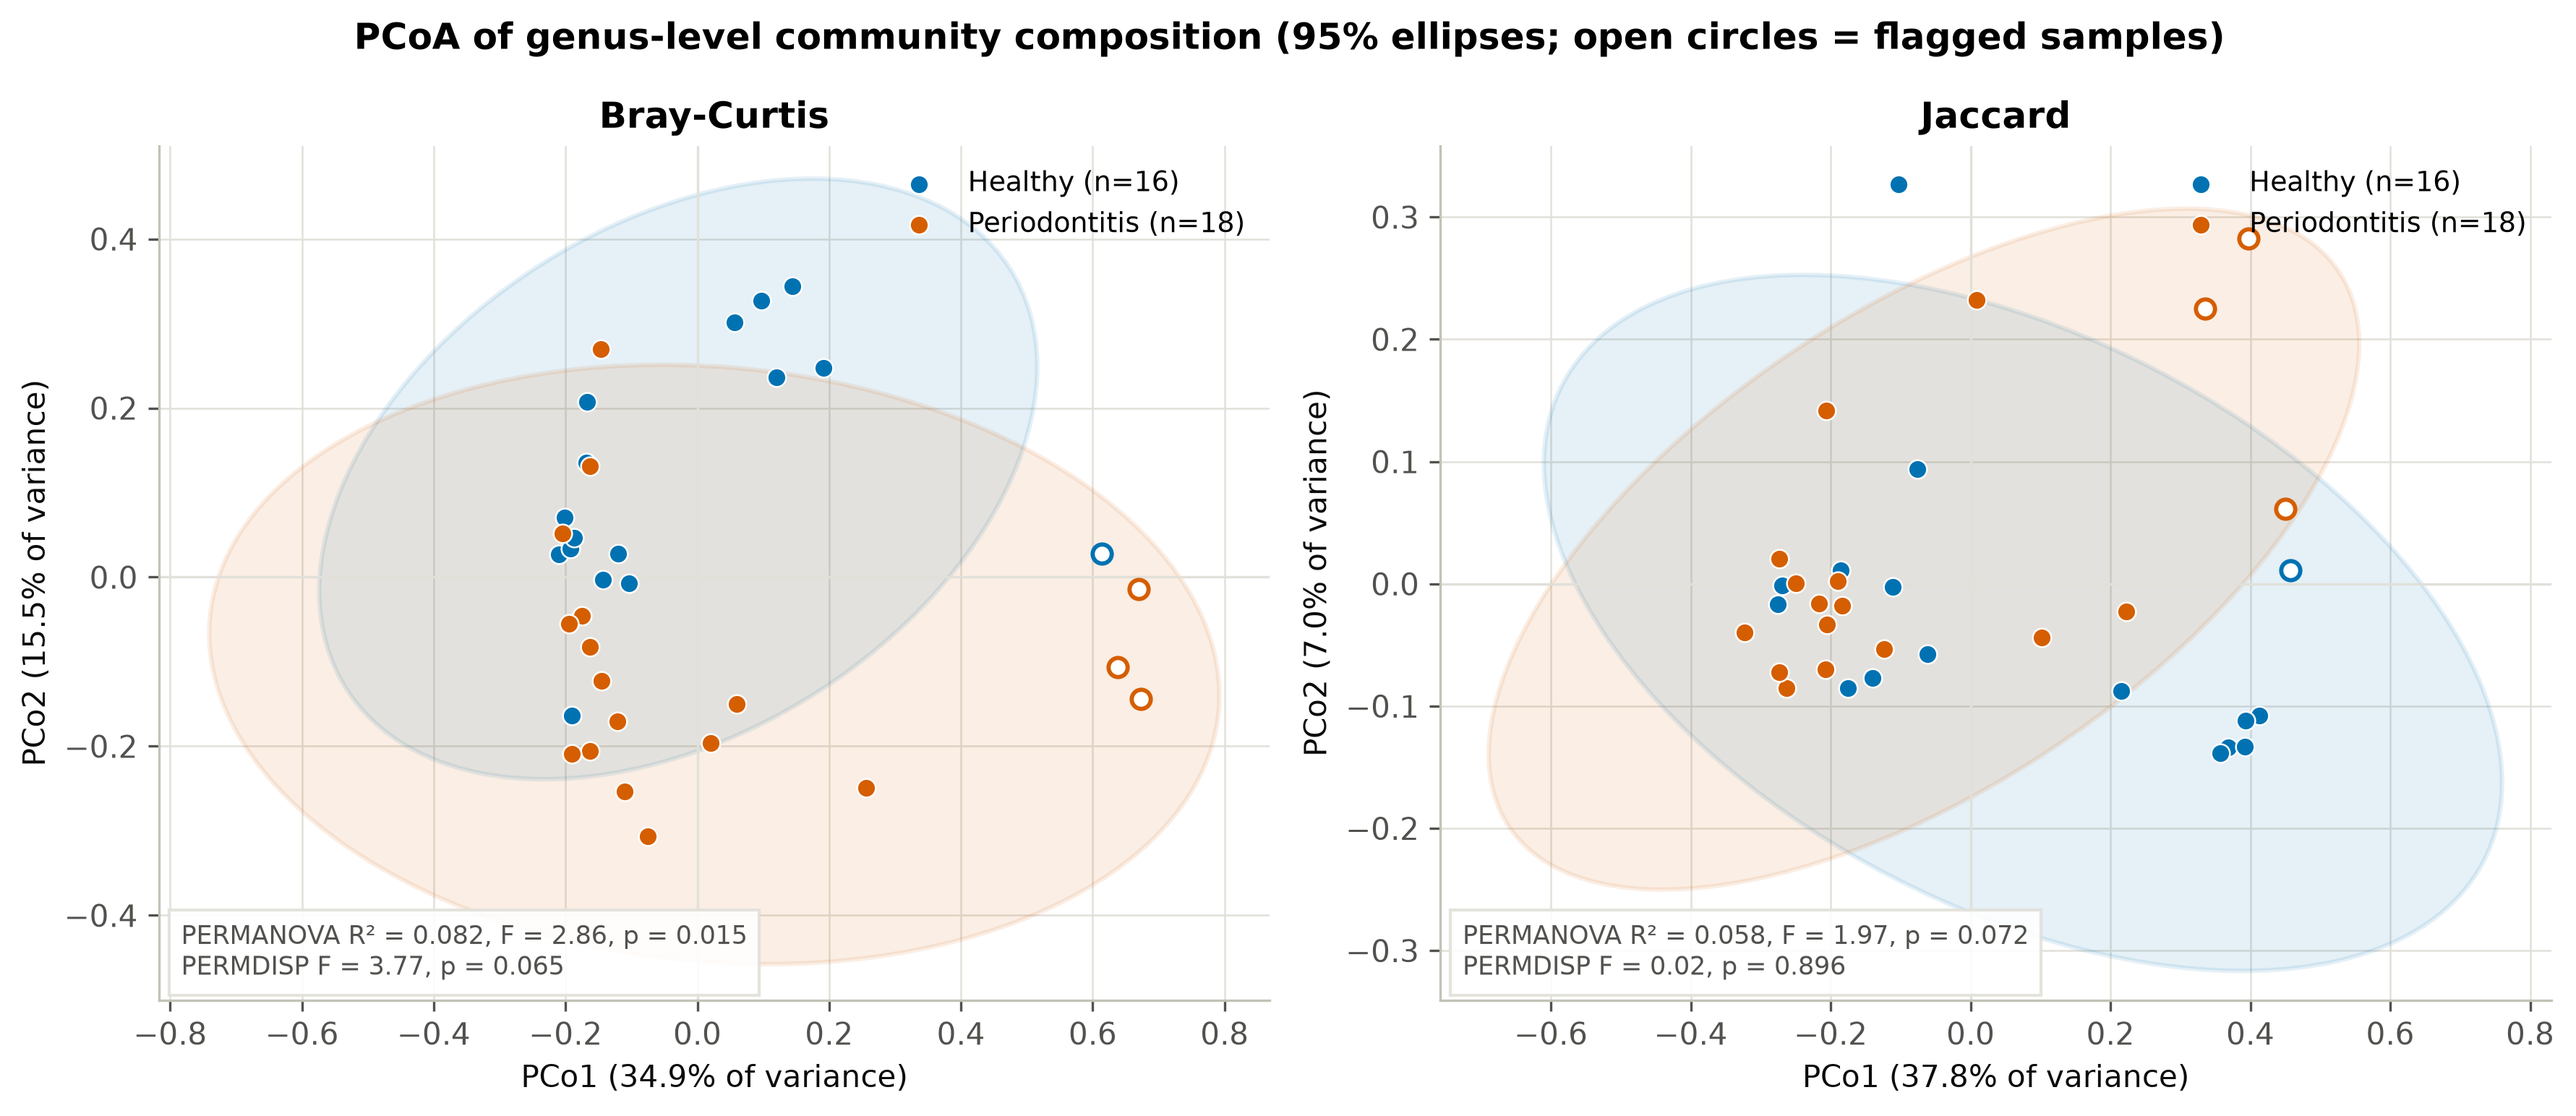
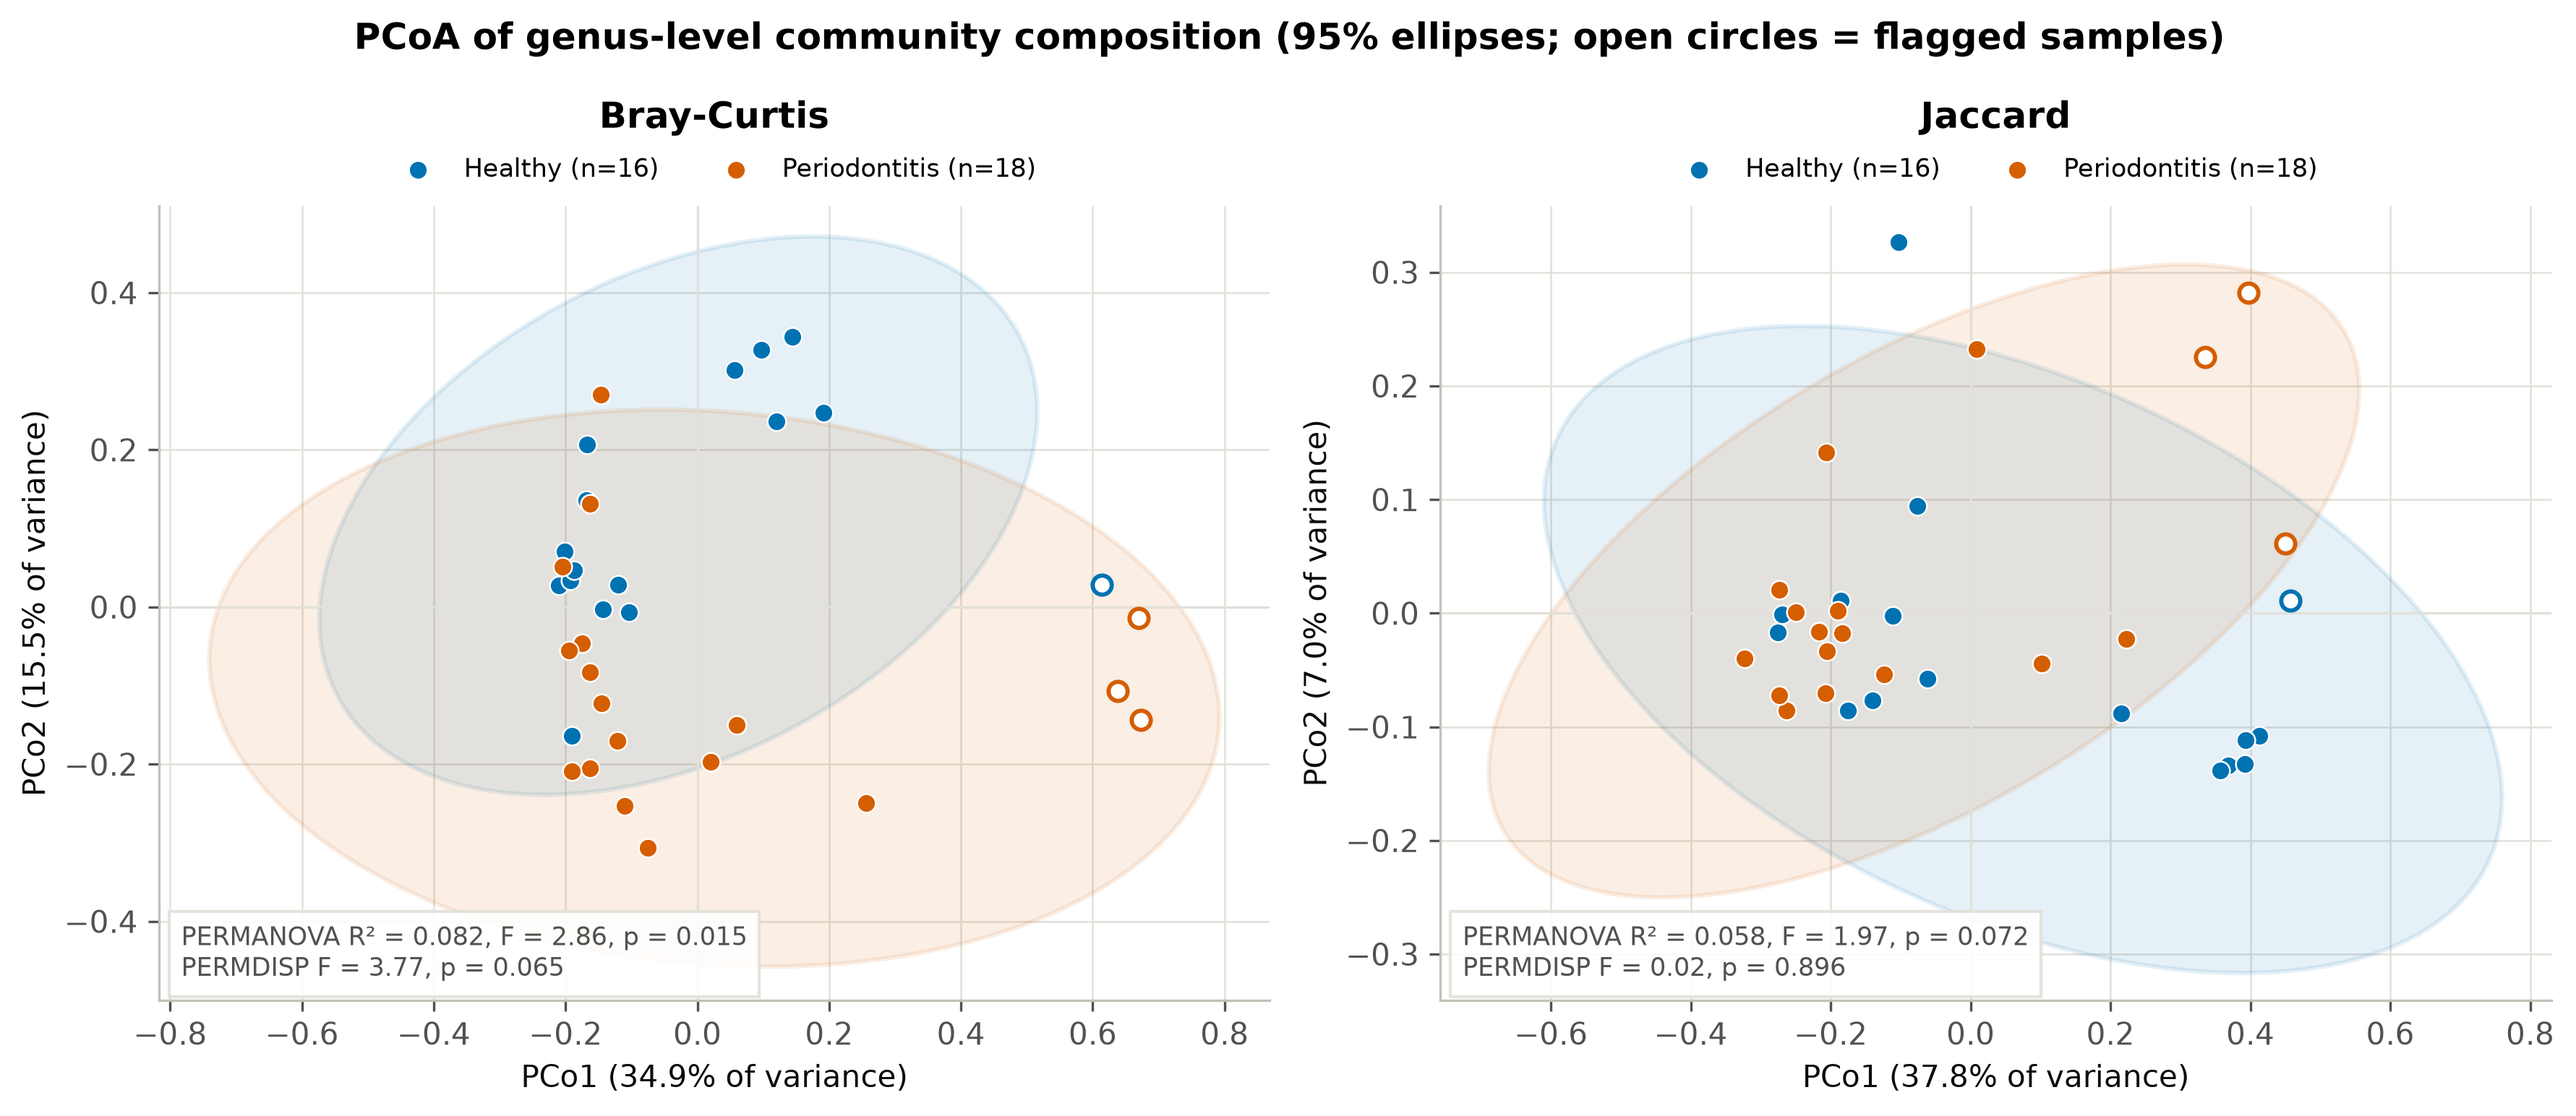
Polish figure layout and add figure captions

diff --git a/src/oralbiome/beta_run.py b/src/oralbiome/beta_run.py
@@ -71,11 +71,11 @@ def plot_ordinations(ords: dict, results: dict, meta: pd.DataFrame, kind: str) -
             sub = f" (stress = {stress:.3f})"
         _scatter_groups(ax, coords, meta, xcol, ycol)
         name = "Bray-Curtis" if metric == "bray_curtis" else "Jaccard"
-        ax.set_title(f"{name}{sub}")
+        ax.set_title(f"{name}{sub}", pad=26)
         ax.text(0.02, 0.02, _stat_text(results[metric]), transform=ax.transAxes, fontsize=8.5,
                 color=style.INK_SECONDARY, va="bottom",
                 bbox={"facecolor": "white", "edgecolor": style.GRID, "alpha": 0.9})
-        ax.legend(loc="upper right")
+        ax.legend(loc="lower center", bbox_to_anchor=(0.5, 1.0), ncol=2, fontsize=8.5)
     title = "PCoA" if kind == "pcoa" else "Non-metric MDS"
     fig.suptitle(f"{style.title_prefix()}{title} of genus-level community composition "
                  f"(95% ellipses; open circles = flagged samples)", fontweight="bold")

diff --git a/src/oralbiome/composition.py b/src/oralbiome/composition.py
@@ -112,7 +112,8 @@ def plot_core(core: pd.DataFrame, meta: pd.DataFrame, n_show: int = 25) -> None:
     ax.set_xlabel("Prevalence: % of samples where the genus is detected")
     ax.set_title(f"{style.title_prefix()}Core genera (detected in >= "
                  f"{config.CORE_PREVALENCE:.0%} of a group)")
-    ax.legend(loc="lower left")
+    ax.legend(loc="lower center", bbox_to_anchor=(0.5, 1.0), ncol=2)
+    ax.set_title(ax.get_title(), pad=30)
     fig.tight_layout()
     style.save(fig, "03_core_microbiome")
 

diff --git a/figures/CAPTIONS.md b/figures/CAPTIONS.md
@@ -1,0 +1,25 @@
+# Figure captions
+
+All figures are 300 dpi PNGs generated by `python run_all.py` from the real
+Guo et al. saliva dataset (healthy n = 16, periodontitis n = 18; replication
+cohort T n = 17, TP n = 16). Every statement is associational: this is a
+cross-sectional study, so no figure shows cause and effect.
+
+| File | Caption |
+|---|---|
+| `00_data_quality.png` | Read depth per sample (44,786-73,730 reads) and rarefaction curves; most curves flatten early, but a subset of samples with far more observed features (up to 2,328) stands out as a data-quality concern. |
+| `01_composition_phylum.png` | Phylum-level relative abundance per sample and per group; Proteobacteria make up a larger mean share in healthy saliva (43%) and Firmicutes in periodontitis saliva (30%), with visible person-to-person variation (* = flagged atypical sample). |
+| `02_composition_genus.png` | Genus-level relative abundance (top 8 genera + Other); *Haemophilus*, *Streptococcus* and *Neisseria* dominate both groups, and the four flagged samples are almost entirely "Other". |
+| `03_core_microbiome.png` | Prevalence of the most abundant core genera (detected in at least 90% of a group); 33 genera meet the core definition in healthy saliva versus 11 in periodontitis saliva, partly because three periodontitis samples are flagged atypical. |
+| `04_alpha_diversity.png` | Alpha diversity at genus level after rarefaction; no metric differs after BH correction across the four metrics (Shannon p = 0.80; Pielou's evenness p = 0.037, q = 0.15, rank-biserial r = +0.42). |
+| `05_pcoa.png` | PCoA of Bray-Curtis and Jaccard distances with 95% ellipses; Bray-Curtis composition differs by group (PERMANOVA R² = 0.082, p = 0.015) with borderline unequal spread (PERMDISP p = 0.065). |
+| `06_nmds.png` | Non-metric MDS of the same distance matrices (stress 0.13 and 0.11), shown as a rank-based check that the PCoA pattern is not an artefact of the ordination method. |
+| `07_distance_heatmap.png` | Pairwise Bray-Curtis dissimilarity, samples grouped by status and clustered within group; the flagged samples (H7, P7, P9, P18) are dissimilar to almost every other sample. |
+| `08_volcano.png` | Per-genus Mann-Whitney tests on CLR abundance for 354 genera; 2 genera pass FDR 5% (72 have raw p < 0.05 versus 17.7 expected by chance, and label-shuffled data average 0.07 FDR hits). |
+| `09_top_taxa_boxplots.png` | CLR abundance of the 8 genera with the smallest p-values; *Fretibacterium* and *Peptococcus* (known periodontitis-associated genera) tend to be higher in periodontitis, while several healthy-leaning genera are environmental taxa concentrated in a high-richness subset of healthy samples. |
+| `10_red_complex_species.png` | Pre-declared test of the three red-complex species: *P. gingivalis* (q = 0.005), *T. forsythia* (q = 0.012) and *T. denticola* (q = 0.004) are all more abundant in periodontitis saliva. |
+| `11_cooccurrence_network.png` | Spearman co-occurrence network on CLR genus abundances (\|rho\| >= 0.6, q < 0.05); hubs include *Campylobacter*, *Fusobacterium* and all three red-complex genera, which co-vary strongly with each other (rho 0.68-0.85). |
+| `12_roc_curves.png` | Out-of-fold ROC curves from 10x repeated 5-fold CV with bootstrap 95% bands; L1 logistic regression reaches AUC 0.92 [0.81, 1.00] and random forest 0.81 [0.65, 0.94]. |
+| `13_feature_importance.png` | Genera used by the classifiers across the 50 fold-level models; one unidentified taxon ("Unclassified Bacilli") is selected in every L1 fold, and dropping it lowers the AUC to 0.64 (L1) and 0.72 (random forest). |
+| `14_permutation_null.png` | The same pipeline run on 100 label-shuffled datasets gives AUCs centred on 0.5; the observed AUCs exceed every shuffle (p = 0.0099, the minimum possible with 100 shuffles). |
+| `15_replication_forest.png` | Effect sizes in the primary cohort (H vs P) and the hypertensive replication cohort (T vs TP); the red-complex species lean the same way but are not significant in the replication cohort, and there PERMANOVA (p = 0.40) and the classifier (AUC 0.48) show no signal. |

diff --git a/PROGRESS.md b/PROGRESS.md
@@ -7,12 +7,13 @@
 - Phase 3: M3 alpha diversity (+2 sensitivity analyses), M4 beta diversity (Bray-Curtis/Jaccard, PCoA, NMDS, PERMANOVA, PERMDISP, heatmap).
 - Phase 4: M5 differential abundance (genus scan + BH, permutation null, pre-declared red-complex species test, high-richness diagnostic).
 - Phase 5: M6 co-occurrence network, M7 classifiers (nested CV, permutation null, ablation), replication cohort T vs TP.
+- Phase 6: visuals pass (16 figures at 300 dpi, colorblind-safe palette, n on every group figure), figures/CAPTIONS.md.
 
 ## In progress
-- Phase 6: visuals pass + figures/CAPTIONS.md.
+- Phase 7: Streamlit dashboard (app.py).
 
 ## Next
-- Phase 7 app, Phase 8 tests, Phase 9 docs.
+- Phase 8 tests, Phase 9 docs.
 
 ## Known bugs
 - None.
